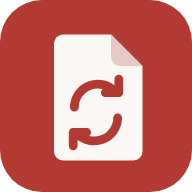
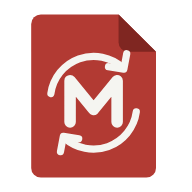
Icono nuevo (hoja con la M y flechas de convertir, como Venditor y Expensae) y ffmpeg también guardado al instalar: todo funciona sin conexión

diff --git a/public/index.html b/public/index.html
@@ -10,8 +10,8 @@
   <meta name="apple-mobile-web-app-capable" content="yes">
   <meta name="mobile-web-app-capable" content="yes">
   <meta name="apple-mobile-web-app-title" content="Mutare">
-  <link rel="apple-touch-icon" href="/iconos/apple-touch-icon.png">
-  <link rel="icon" href="/iconos/icono.svg" type="image/svg+xml">
+  <link rel="apple-touch-icon" href="/iconos/apple-touch-icon.png?v=2">
+  <link rel="icon" href="/iconos/icono.svg?v=2" type="image/svg+xml">
   <title>Mutare</title>
   <link rel="stylesheet" href="/styles.css">
   <script src="/tema.js"></script>
@@ -21,11 +21,12 @@
   <header class="topbar">
     <div class="topbar-inner">
       <a class="marca" href="#" aria-label="Mutare, ir al inicio">
-        <!-- Logo: una hoja con la esquina doblada y dos flechas en círculo (transformar) -->
+        <!-- Logo: una hoja de archivo con la M de Mutare y dos flechas que giran alrededor (convertir) -->
         <svg viewBox="0 0 40 40" aria-hidden="true">
-          <path d="M10 3.5h14.2l8.3 8.3V34a2.5 2.5 0 0 1-2.5 2.5H10A2.5 2.5 0 0 1 7.5 34V6A2.5 2.5 0 0 1 10 3.5z" fill="none" stroke="currentColor" stroke-width="1.6" stroke-linejoin="round"/>
-          <path d="M24.2 3.5v8.3h8.3" fill="none" stroke="currentColor" stroke-width="1.6" stroke-linejoin="round"/>
-          <path d="M13.4 21.5a6.6 6.6 0 0 1 11.6-4.3M26.6 24.5a6.6 6.6 0 0 1-11.6 4.3M25.6 13.6v3.9h-3.9M14.4 32.4v-3.9h3.9" fill="none" stroke="var(--acento)" stroke-width="2.2" stroke-linecap="round" stroke-linejoin="round"/>
+          <path d="M8.5 3.5h16l7.5 7.5v24a2 2 0 0 1-2 2H8.5a2 2 0 0 1-2-2v-29.5a2 2 0 0 1 2-2z" fill="none" stroke="currentColor" stroke-width="1.6" stroke-linejoin="round"/>
+          <path d="M24.5 3.5v5.5a2 2 0 0 0 2 2H32" fill="none" stroke="currentColor" stroke-width="1.6" stroke-linejoin="round"/>
+          <path d="M14.6 25.4v-8.6l4.9 6 4.9-6v8.6" fill="none" stroke="var(--acento)" stroke-width="2.3" stroke-linecap="round" stroke-linejoin="round"/>
+          <path d="M10.6 19.5a9 9 0 0 1 15-5.4M28.4 23.3a9 9 0 0 1-15 5.4M26.4 11.2l-.6 3.2-3.2-.5M12.6 31.6l.6-3.2 3.2.5" fill="none" stroke="var(--acento)" stroke-width="1.4" stroke-linecap="round" stroke-linejoin="round"/>
         </svg>
         <span class="marca-nombre">Mutare</span>
       </a>

diff --git a/public/sw.js b/public/sw.js
@@ -3,14 +3,14 @@
 // Service worker de Mutare: permite usar la app sin conexión.
 // - La interfaz (HTML, CSS, JS) se pide primero a la red y, si no hay conexión,
 //   se sirve la última copia guardada: así siempre ves la versión más reciente.
-// - Al instalarse guarda todo (interfaz, tipografías y librerías) menos el
-//   núcleo de ffmpeg (32 MB), que se guarda la primera vez que se usa audio o
-//   vídeo. Así funciona sin conexión, aunque el servidor ya no exista.
+// - Al instalarse guarda todo (interfaz, tipografías y librerías, ffmpeg
+//   incluido: unos 40 MB). Así funciona sin conexión desde el primer momento,
+//   aunque el servidor ya no exista.
 // - Las librerías, fuentes e iconos llevan la versión en la ruta y no cambian:
 //   se sirven de la caché.
 // Tus archivos nunca pasan por aquí: se procesan en la página y no salen del navegador.
 
-const CACHE = 'mutare-v4';
+const CACHE = 'mutare-v5';
 // <lista-offline> (la genera scripts/lista-offline.js: no editar a mano)
 const OFFLINE = [
   "/",
@@ -59,6 +59,8 @@ const OFFLINE = [
   "/vendor/ffmpeg-0.12.10/types.js",
   "/vendor/ffmpeg-0.12.10/utils.js",
   "/vendor/ffmpeg-0.12.10/worker.js",
+  "/vendor/ffmpeg-core-0.12.6/ffmpeg-core.js",
+  "/vendor/ffmpeg-core-0.12.6/ffmpeg-core.wasm",
   "/vendor/heic2any-0.0.4/heic2any.min.js",
   "/vendor/mammoth-1.8.0/mammoth.browser.min.js",
   "/vendor/marked-18.0.10/marked.mjs",

diff --git a/scripts/lista-offline.js b/scripts/lista-offline.js
@@ -1,7 +1,7 @@
 // Regenera en public/sw.js la lista de archivos que la app guarda al instalarse
 // para funcionar sin conexion: toda la interfaz, las tipografias, los iconos y
-// las librerias, salvo el nucleo de ffmpeg (32 MB), que se guarda la primera
-// vez que se usa audio o video.
+// todas las librerias, ffmpeg incluido (32 MB): asi audio y video tambien
+// funcionan sin red desde el primer momento.
 // Uso: node scripts/lista-offline.js   (despues de añadir o actualizar librerias)
 'use strict';
 const fs = require('fs');
@@ -9,7 +9,7 @@ const path = require('path');
 
 const PUB = path.join(__dirname, '..', 'public');
 const SW = path.join(PUB, 'sw.js');
-const FUERA = [/^vendor\/ffmpeg-core-/, /(^|\/)LICENSE[^/]*$/i, /\.(md|txt|map|d\.ts|d\.mts)$/i, /^sw\.js$/];
+const FUERA = [/(^|\/)LICENSE[^/]*$/i, /\.(md|txt|map|d\.ts|d\.mts)$/i, /^sw\.js$/];
 
 function recorrer(dir, base = '') {
   return fs.readdirSync(dir, { withFileTypes: true }).flatMap((e) => {

diff --git a/LEEME.md b/LEEME.md
@@ -42,11 +42,12 @@ elegidos y estima lo que ocupará el archivo entero.
 
 **Funciona sin conexión.** Al abrirla (o instalarla como app en el móvil o el
 ordenador) guarda en el navegador todo lo que necesita: la interfaz, las
-tipografías y todas las librerías, unos 9 MB. Desde ese momento funciona aunque
-no haya red y aunque el servidor ya no exista. La única excepción es el núcleo de
-ffmpeg (32 MB), que se guarda la primera vez que se usa una herramienta de audio
-o vídeo. Si se añade o actualiza una librería, hay que regenerar la lista de lo
-que se guarda: `node scripts/lista-offline.js`. En ordenador y portátil, la portada enseña todas las
+tipografías y todas las librerías, ffmpeg incluido: unos 40 MB. Desde ese momento
+funciona todo, audio y vídeo también, aunque no haya red y aunque el servidor ya
+no exista. Si se añade o actualiza una librería, hay que regenerar la lista de lo
+que se guarda: `node scripts/lista-offline.js`.
+
+En ordenador y portátil, la portada enseña todas las
 herramientas de un vistazo, sin desplazarse. Hay un buscador en la cabecera
 («heic», «mp3», «excel»…).
 
@@ -110,7 +111,8 @@ actualizándose cada 5 minutos hasta que pongas otro.
   - `aislado.html`: página invisible para las dos librerías que necesitan evaluar
     código (heic2any y mammoth). Tiene su propia CSP: puede evaluar código pero no
     conectarse a nada. Así el resto de la app mantiene la política estricta.
-  - Cada librería se descarga solo cuando una herramienta la necesita.
+  - Cada librería se carga en memoria solo cuando una herramienta la necesita
+    (en el dispositivo ya están todas guardadas desde la instalación).
 
 ## Librerías (todas dentro de `public/vendor/`)
 
